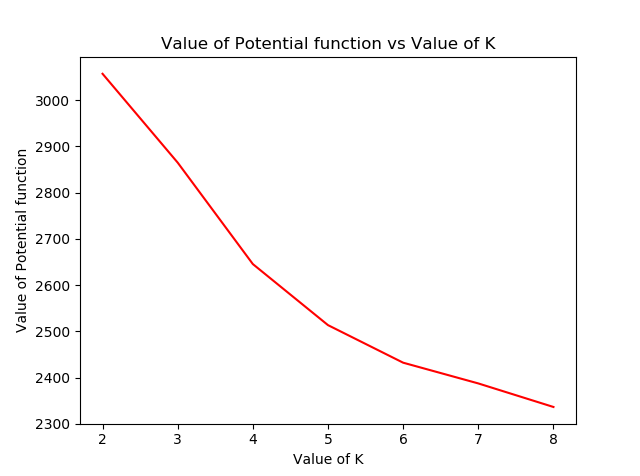
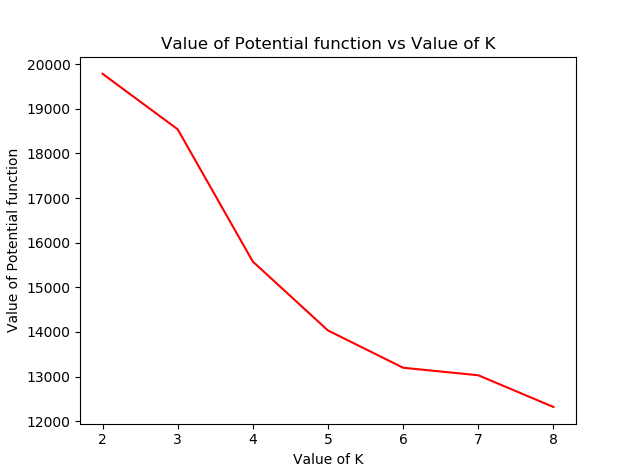
changed a bit in potential function calculation

diff --git a/Assignment 3 - K-Means Clustering/k-means.py b/Assignment 3 - K-Means Clustering/k-means.py
@@ -57,9 +57,9 @@ class Kmeans(object):
             data_belonging_to_i = self.X[indices_belonging_to_i]
             u = centroids[[i], :]
             squared = np.square(u - data_belonging_to_i)
-            summed = np.sum(squared, axis=1)
-            sqrted = np.sqrt(summed)
-            F_mu_c += np.sum(sqrted)
+            summed = np.sum(squared) #, axis=1)
+            # sqrted = np.sqrt(summed)
+            F_mu_c += summed # np.sum(summed)
 
         return F_mu_c
 
